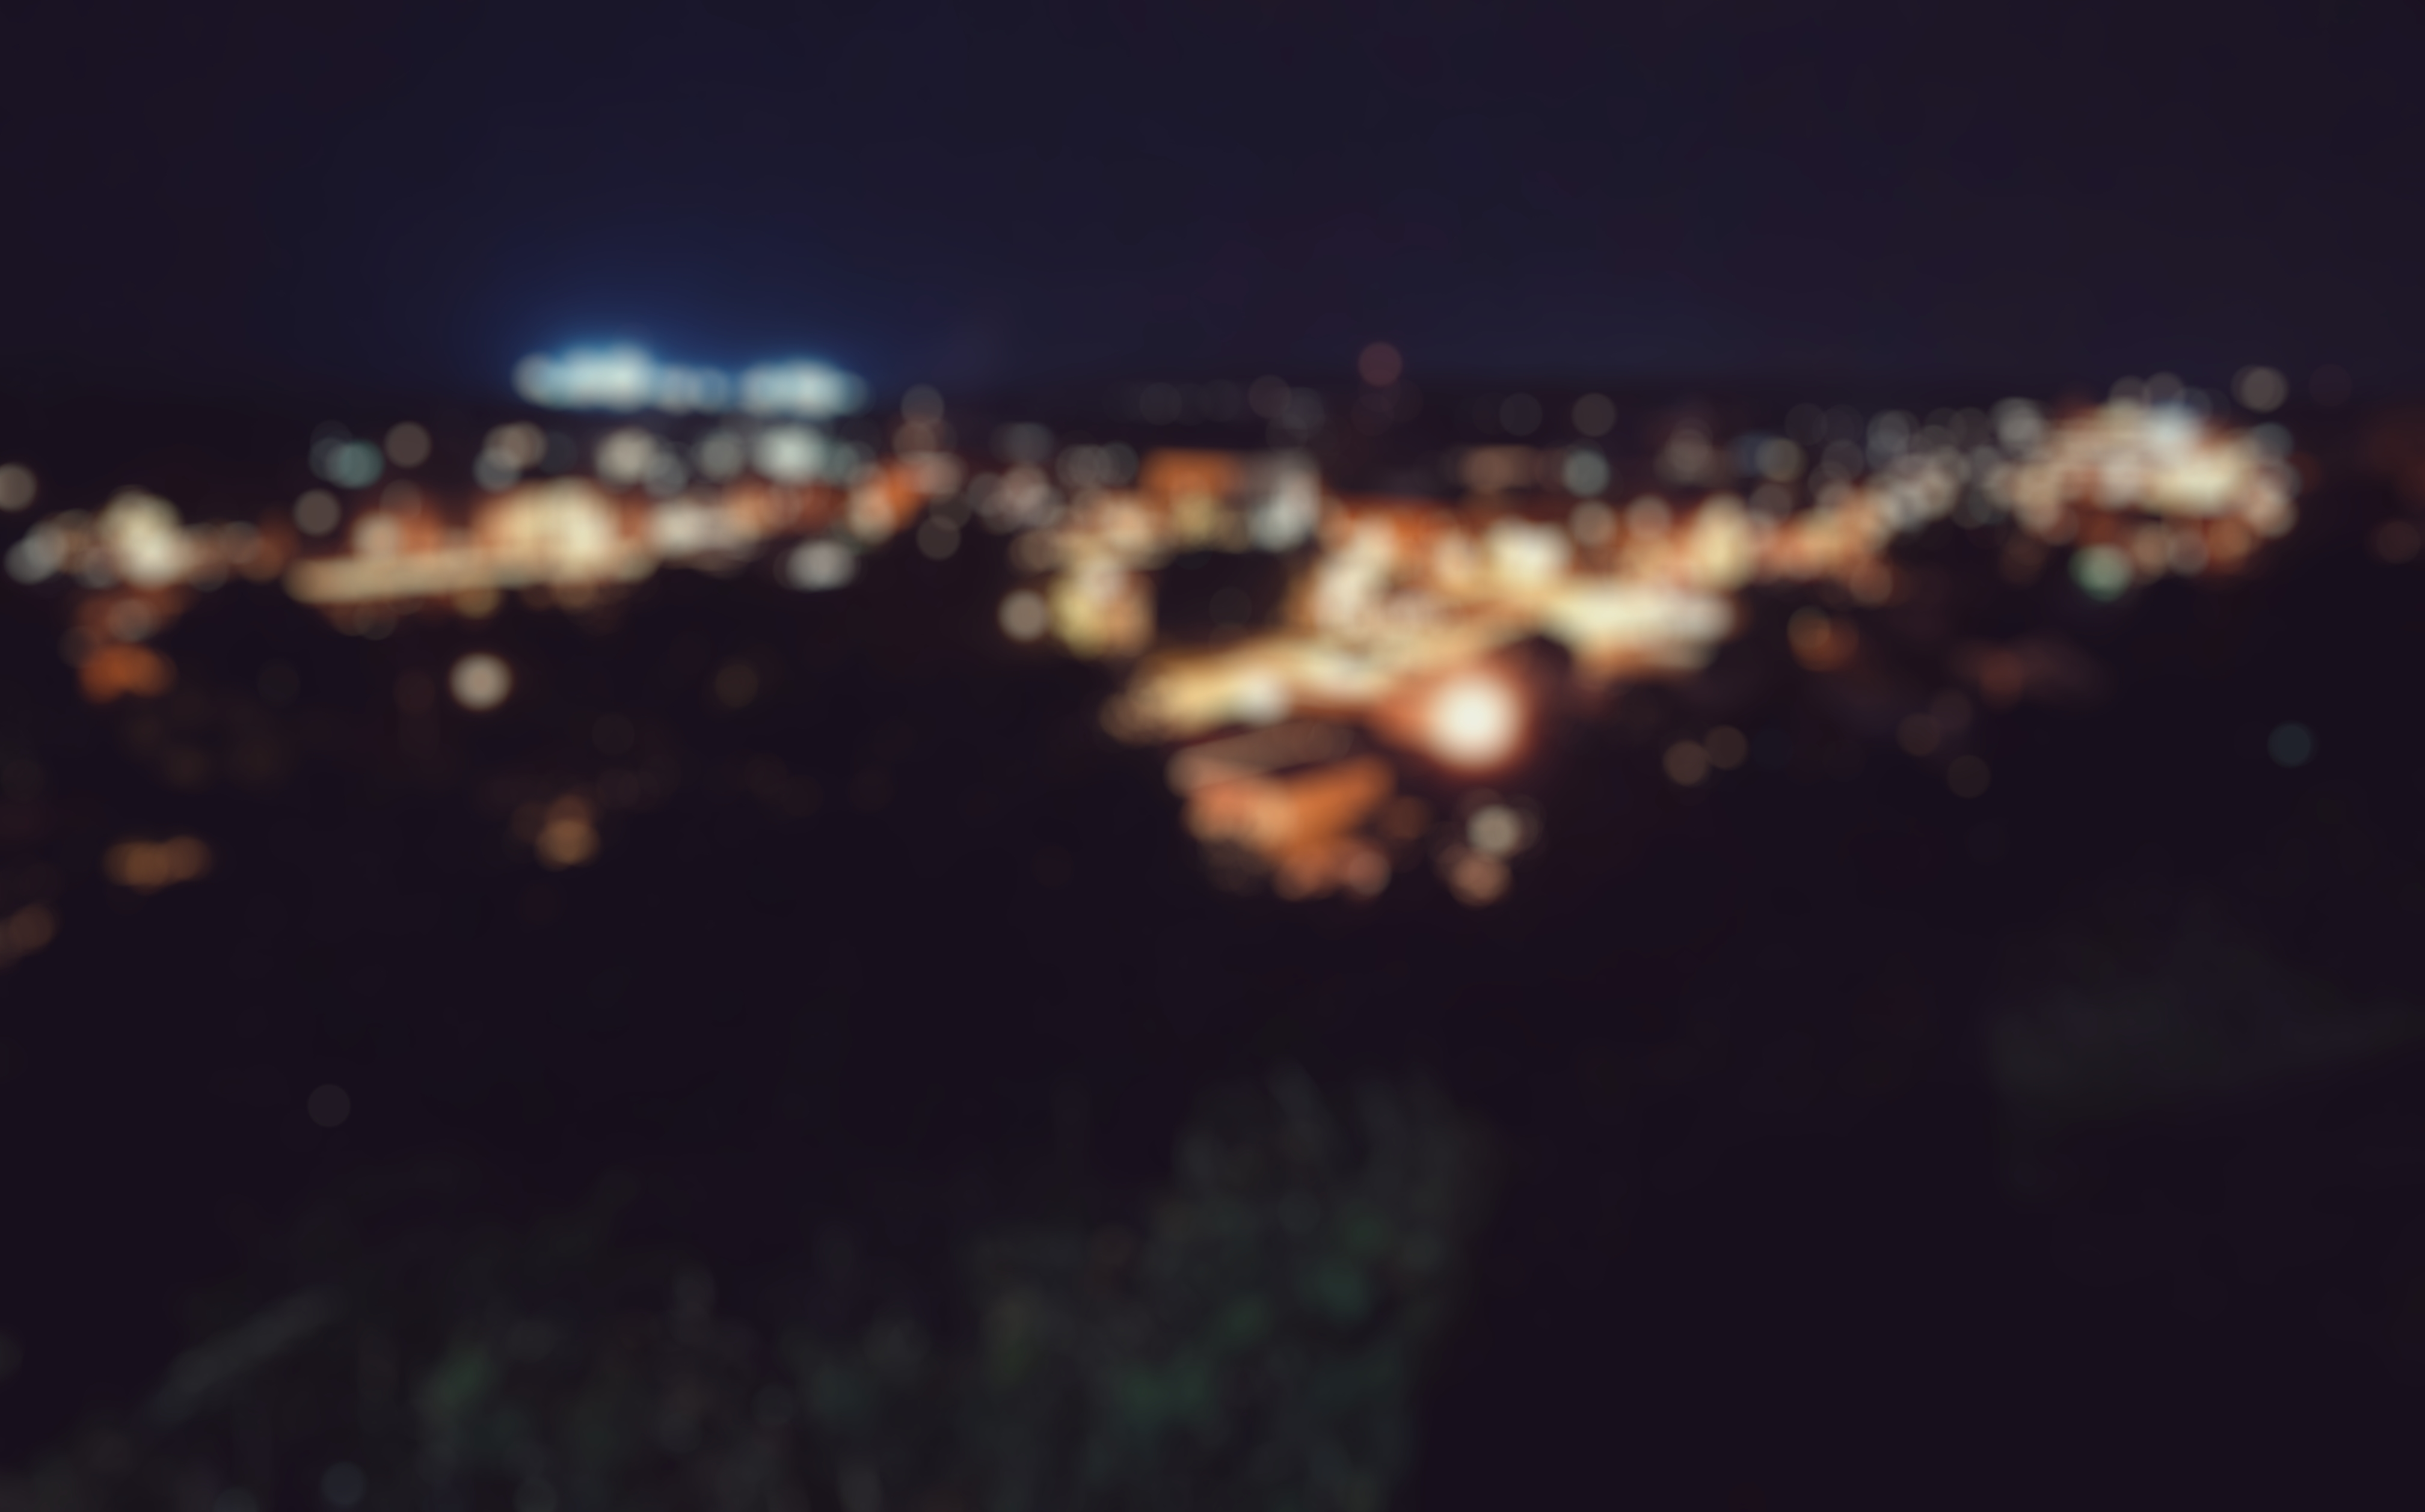
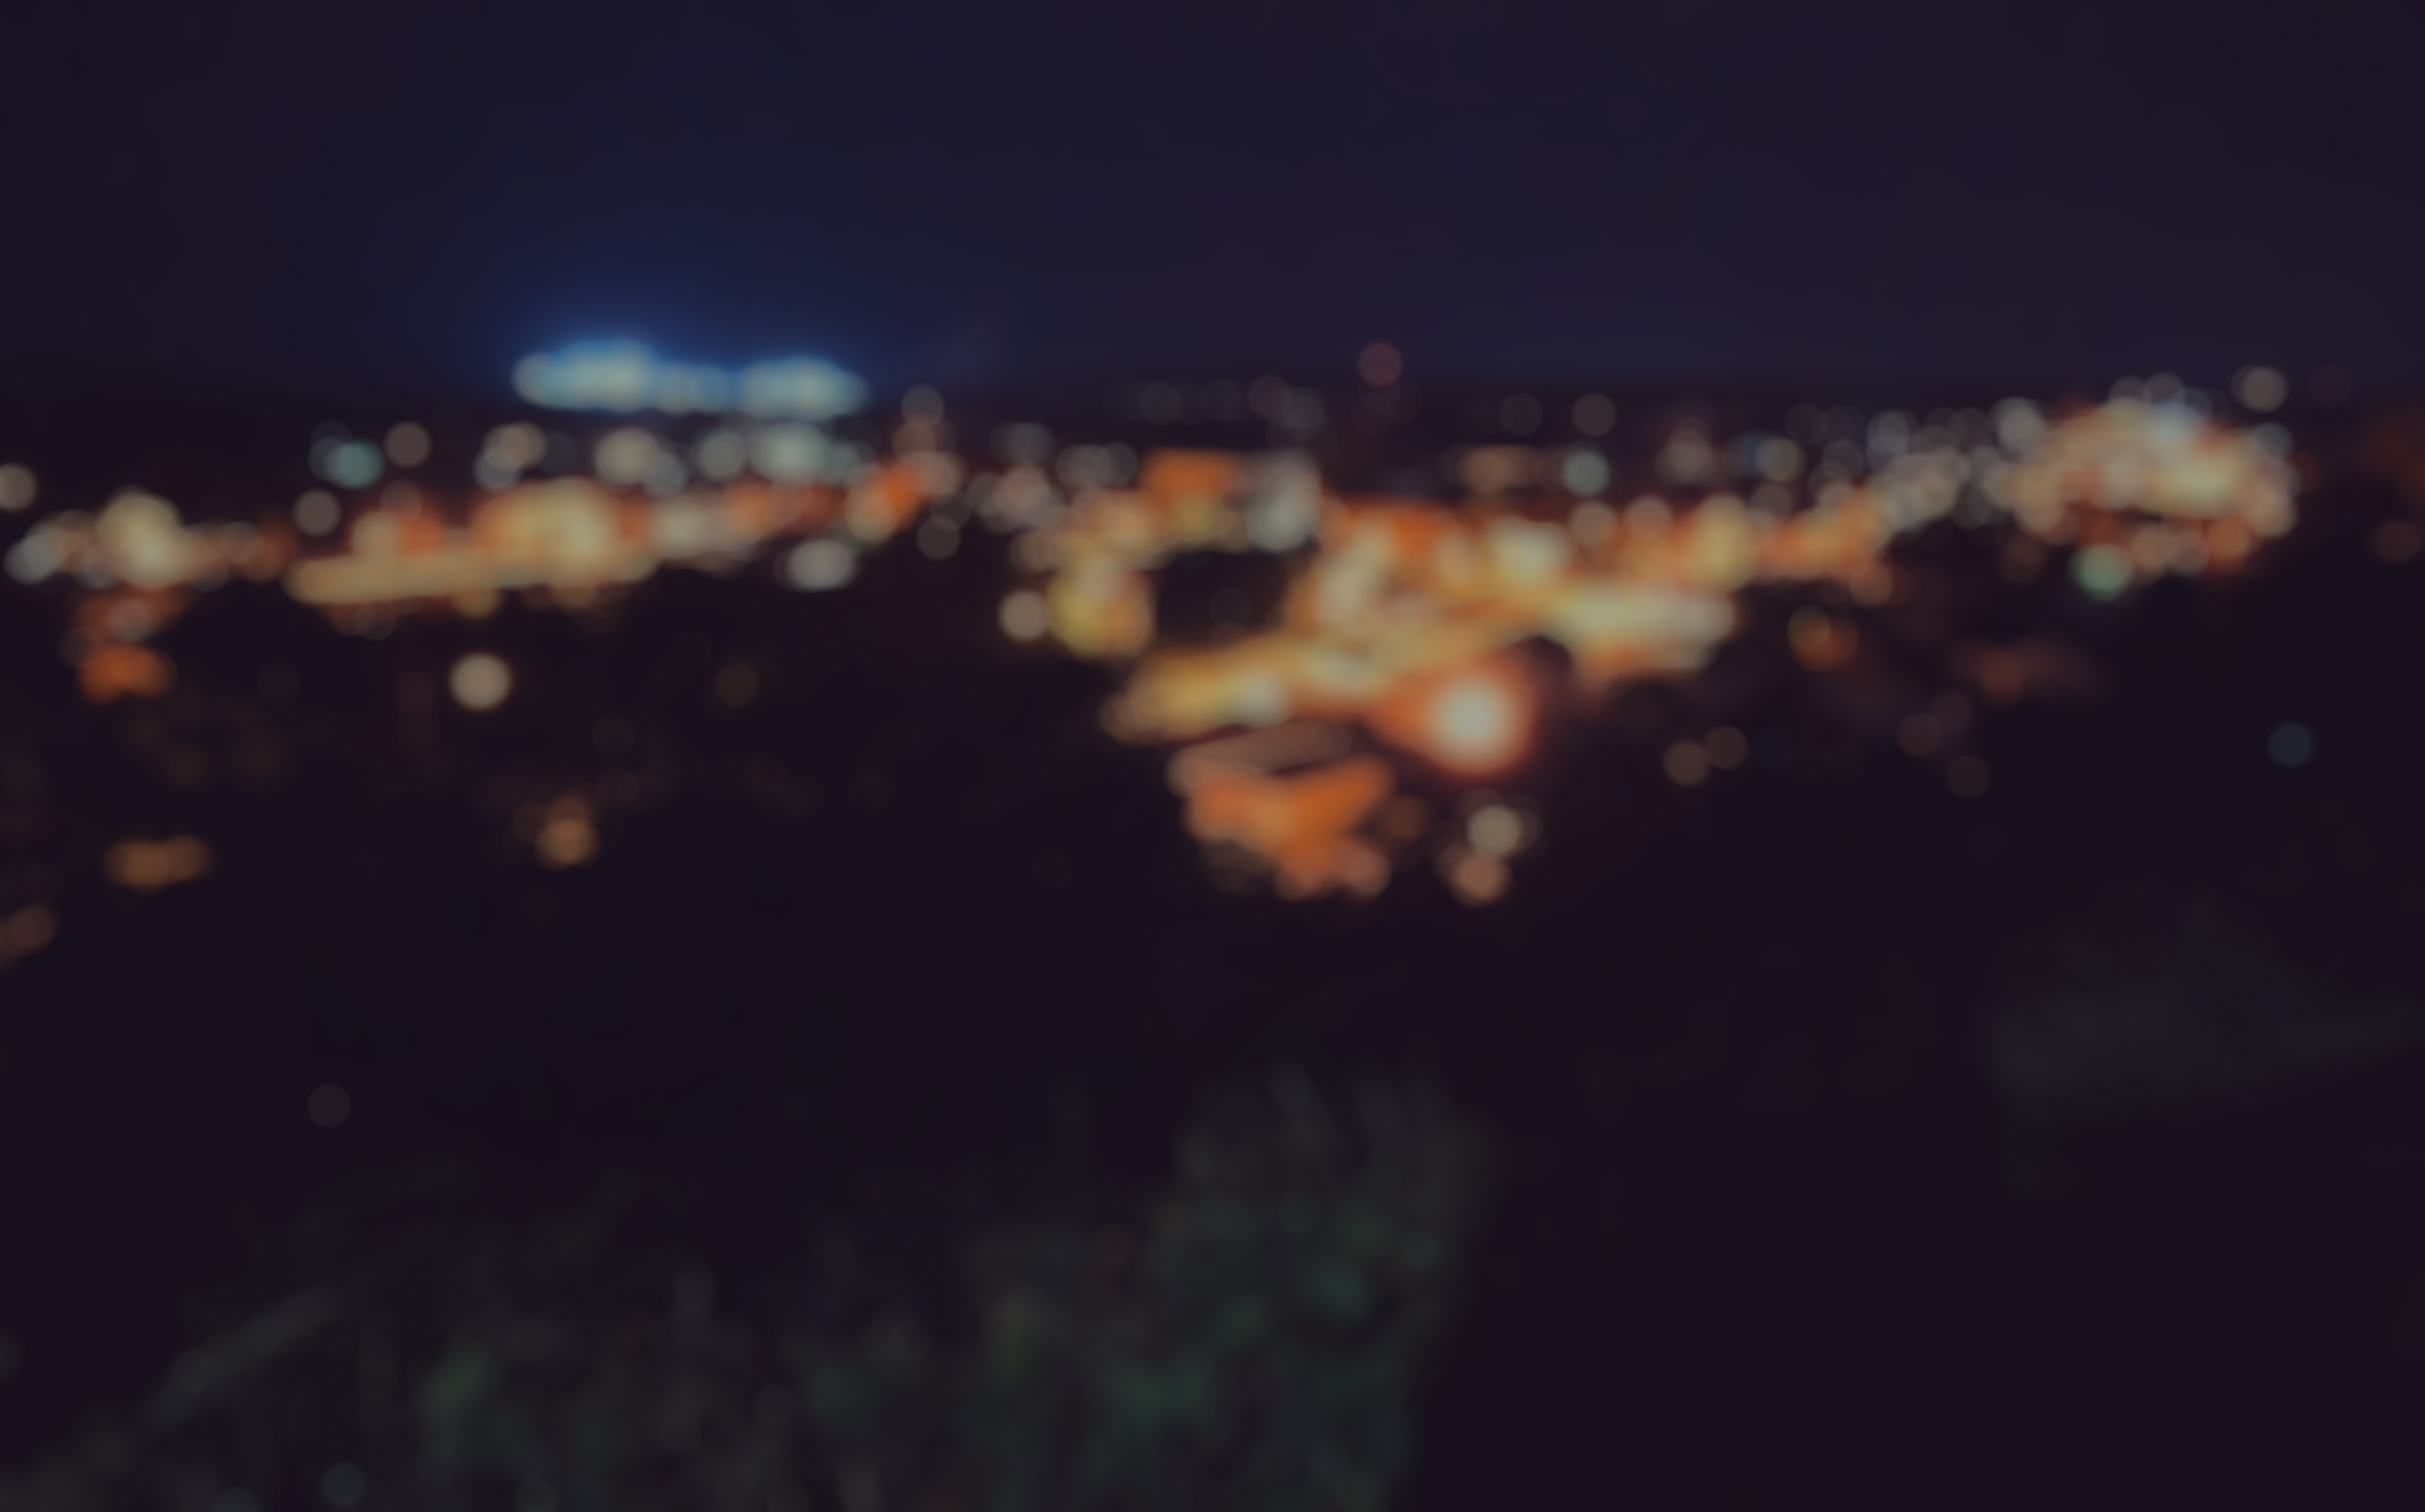
Done with basic shit
Added navigation slideout bar
Fixed anims
Darkened home page fullscreen background

diff --git a/styles/main.css b/styles/main.css
@@ -29,6 +29,10 @@ body {
   background-color: #1A1A1D;
   color: white;
 }
+a {
+  color: inherit;
+  text-decoration: none;
+}
 ol, ul {
 	list-style: none;
 }
@@ -64,6 +68,7 @@ border-radius: 5px;
   height: 100vh;
   width: 100%;
   display: block;
+  background-attachment: fixed;
 }
 
 #vertBar {
@@ -74,7 +79,7 @@ border-radius: 5px;
   top: 50%;
   left: 50%;
   transform: rotate(90deg);
-  transition: all .5s cubic-bezier(0, 0.5, 0.25, 1);
+  transition: width .5s cubic-bezier(0, 0.5, 0.25, 1), left .5s cubic-bezier(0, 0.5, 0.25, 1), transform .5s cubic-bezier(0, 0.5, 0.25, 1);
 }
 
 #name {
@@ -83,7 +88,7 @@ border-radius: 5px;
   color: white;
   width: 100%;
   opacity: 0;
-  transition: all .5s ease;
+  transition: opacity .5s ease;
 }
 
 #name p {
@@ -100,7 +105,9 @@ nav {
   position: fixed;
   top: 20px;
   left: 20px;
+  z-index: 999;
   cursor: pointer;
+  transition: left .5s ease;
 }
 
 nav div {
@@ -109,4 +116,72 @@ nav div {
   background-color: white;
   display: block;
   margin: 6px 0;
+  transition: transform .5s ease, background-color .5s ease, top .5s ease;
+  z-index: 999;
+  position: relative;
+  transform-origin: 0 50%;
+}
+
+nav section {
+  position: fixed;
+  top: 0;
+  left: 0;
+  bottom: 0;
+  background-color: white;
+  width: 400px;
+  z-index: 998;
+  transition: margin .5s ease;
+  margin-left: -400px;
+}
+
+#overlay {
+  position: fixed;
+  top: 0;
+  left: 0;
+  bottom: 0;
+  right: 0;
+  background-color: rgba(0,0,0,.5);
+  width: 100%;
+  height: 100vh;
+  display: none;
+  z-index: 997;
+}
+
+nav ul li a {
+  color: #1A1A1D;
+  font-size: 22px;
+  width: 100%;
+  padding: 13px 0;
+  display: block;
+  position: relative;
+  text-transform: uppercase;
+}
+
+nav ul {
+  width: 65%;
+  display: block;
+  position: relative;
+  margin: 40px;
+  margin-top: 70px;
+}
+
+nav ul li {
+  width: 100%;
+  display: block;
+  border-bottom: 1px solid #1A1A1D;
+  margin-bottom: 20px;
+}
+
+nav ul li:after{
+  width: 0;
+  display: block;
+  background-color: #1A1A1D;
+  height: 2px;
+  position: relative;
+  content: "";
+  transition: width .5s ease;
+}
+
+nav ul li:hover:after{
+  width: 100%;
 }

diff --git a/js/anims.js b/js/anims.js
@@ -10,3 +10,31 @@ function barGrow(){
     document.getElementById("name").style.opacity = "1";
   }, 2000);
 }
+
+function toggleNav(){
+  if(!navTog){
+    document.getElementById("slideOut").style.marginLeft = "0";
+    document.getElementById("overlay").style.display = "block";
+    document.getElementById("nav").style.left = "355px";
+    document.getElementById("bar1").style.backgroundColor = "black";
+    document.getElementById("bar1").style.transform = "rotate(45deg)";
+    document.getElementById("bar1").style.top = "-8px";
+    document.getElementById("bar2").style.display = "none";
+    document.getElementById("bar3").style.backgroundColor = "black";
+    document.getElementById("bar3").style.transform = "rotate(-45deg)";
+    document.getElementById("bar3").style.top = "8px";
+  }
+  else {
+    document.getElementById("slideOut").style.marginLeft = "-400px";
+    document.getElementById("overlay").style.display = "none";
+    document.getElementById("bar1").style.backgroundColor = "white";
+    document.getElementById("bar1").style.transform = "rotate(0deg)";
+    document.getElementById("bar1").style.top = "0";
+    document.getElementById("bar2").style.display = "block";
+    document.getElementById("bar3").style.backgroundColor = "white";
+    document.getElementById("bar3").style.transform = "rotate(0deg)";
+    document.getElementById("bar3").style.top = "0";
+    document.getElementById("nav").style.left = "20px";
+  }
+  navTog = !navTog;
+}

diff --git a/boilerplate.html b/boilerplate.html
@@ -2,7 +2,7 @@
 <html>
   <head>
     <meta charset="utf-8">
-    <title>Lenz Photography - Home</title>
+    <title>LP Boilerplate</title>
     <link href="https://fonts.googleapis.com/css?family=Muli" rel="stylesheet">
     <link type="text/css" rel="stylesheet" href="styles/main.css">
   </head>
@@ -15,18 +15,12 @@
         <ul>
           <li><a href="index.html">Home</a></li>
           <li><a href="past.html">Past Shoots</a></li>
-          <li><a href="sched.html">Schedule Shoot</a></li>
+          <li><a href="sched.html">Schedule Appointment</a></li>
           <li><a href="about.html">About Us</a></li>
         </ul>
       </section>
       <div id="overlay"></div>
     </nav>
-    <div id="hmbkg"></div>
-    <div id="vertBar"></div>
-    <div id="name">
-      <p>Lenz</p>
-      <p>Photography</p>
-    </div>
     <script src="https://code.jquery.com/jquery-3.3.1.min.js" integrity="sha256-FgpCb/KJQlLNfOu91ta32o/NMZxltwRo8QtmkMRdAu8=" crossorigin="anonymous"></script>
     <script src="js/main.js"></script>
     <script src="js/anims.js"></script>

diff --git a/js/main.js b/js/main.js
@@ -1,0 +1,1 @@
+var navTog = false;
